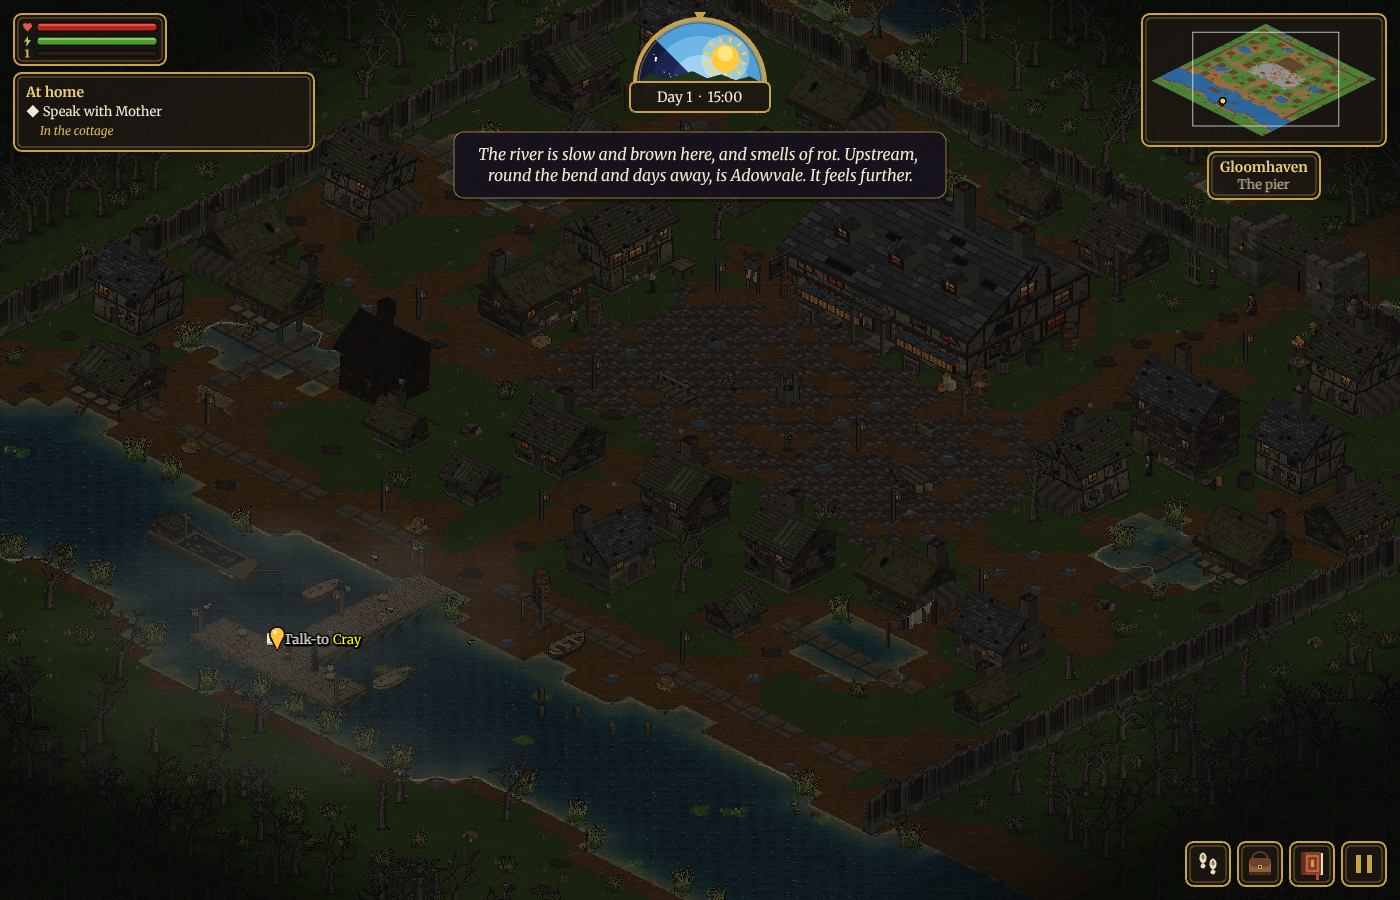
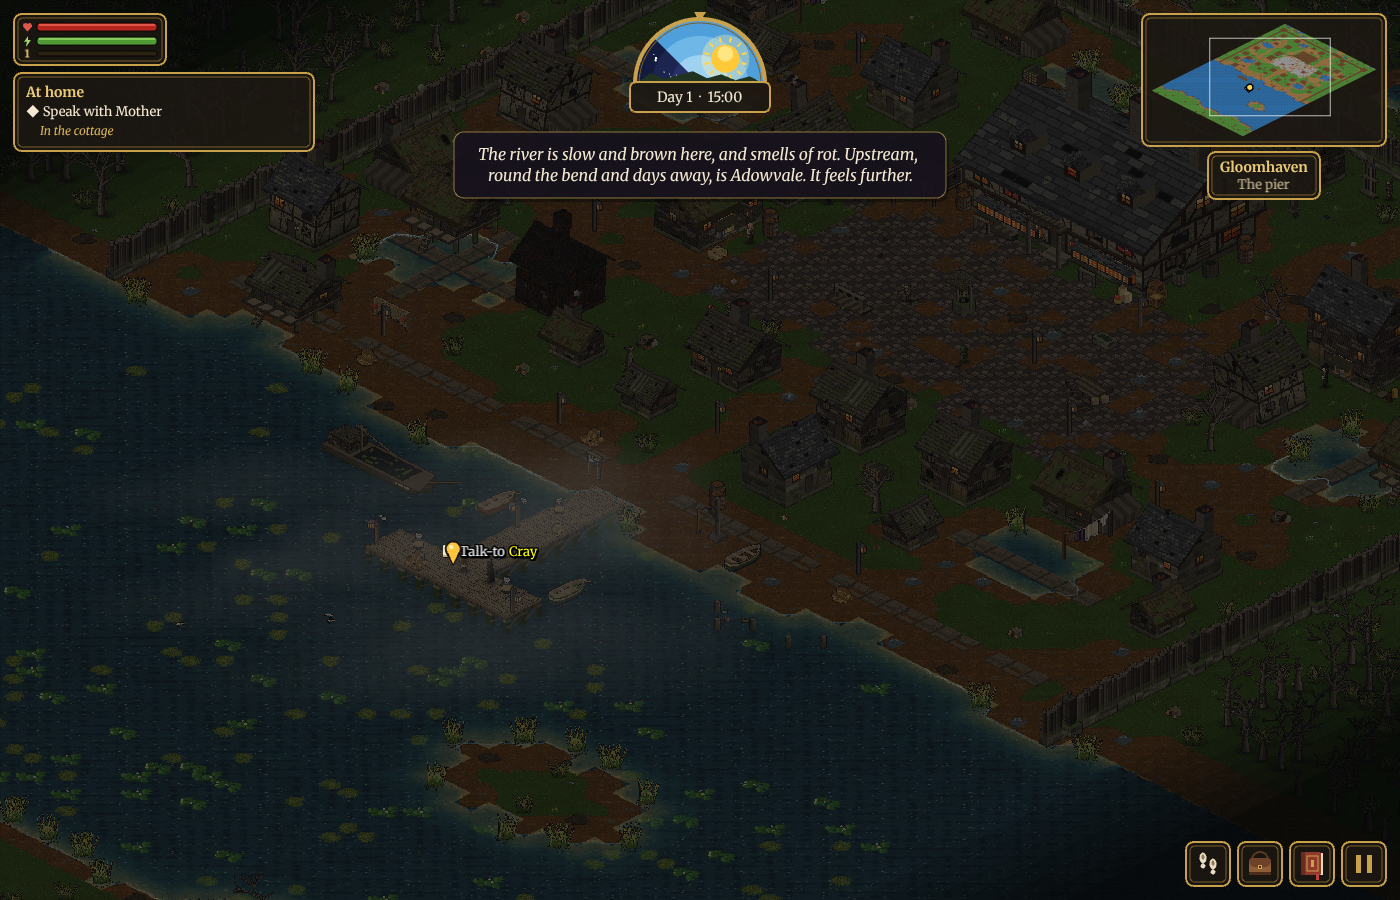
Gloomhaven: widen the river to over three times its width, with a reedy eyot out in it
The far bank now lies some 34 tiles off, so the pier reaches out into open
water instead of across it; the map runs further south to hold it.

Claude-Session: https://claude.ai/code/session_016H1bz4FekaBAahk7Wi7jVe

diff --git a/src/world/GloomhavenMap.ts b/src/world/GloomhavenMap.ts
@@ -31,8 +31,11 @@ export function gloomBank(x: number): number {
 
 /** Where the far bank comes down to the water: rows from here on are the far shore (all reeds and drowned trees). */
 function farBank(x: number): number {
-  return 56.4 + 1.2 * Math.sin(x * 0.21 + 1.3) + 0.6 * Math.sin(x * 0.53);
+  return 80.4 + 1.6 * Math.sin(x * 0.21 + 1.3) + 0.8 * Math.sin(x * 0.53);
 }
+
+/** A reedy eyot out in the river, east of the pier: centre and radii, in tiles. */
+const EYOT = { x: 45, y: 64, rx: 4.2, ry: 2.6 };
 
 /** Standing pools inside the walls: centre and radii, in tiles. */
 const POOLS: Array<{ x: number; y: number; rx: number; ry: number }> = [
@@ -69,6 +72,13 @@ export function buildGloomhavenMap(): MapData {
       if (cy >= near && cy < far) terrain[y][x] = Terrain.Water;
       else if (cy < near && cy >= near - 2.2) terrain[y][x] = Terrain.Dirt;
       else if (cy >= far && cy < far + 0.8) terrain[y][x] = Terrain.Dirt;
+    }
+  }
+  // ---- The eyot: a mudbank in mid-river, all reeds and a drowned tree or two ----
+  for (let y = 0; y < H; y++) {
+    for (let x = 0; x < W; x++) {
+      const d = Math.hypot((x + 0.5 - EYOT.x) / EYOT.rx, (y + 0.5 - EYOT.y) / EYOT.ry) + 0.15 * Math.sin(x * 1.7 + y * 2.3);
+      if (d < 1) terrain[y][x] = d < 0.6 ? Terrain.Grass : Terrain.Dirt;
     }
   }
   // ---- The pools ----
@@ -615,7 +625,8 @@ function addMarsh(data: MapData, rnd: Phaser.Math.RandomDataGenerator, set: Sett
     for (let x = 0; x < W; x++) {
       if (!free(x, y) || isWater(x, y)) continue;
       const roll = rnd.frac();
-      const outside = y < GLOOM_WALL.north - 1 || y > farBank(x) + 1;
+      const eyot = Math.hypot((x + 0.5 - EYOT.x) / EYOT.rx, (y + 0.5 - EYOT.y) / EYOT.ry) < 0.8;
+      const outside = y < GLOOM_WALL.north - 1 || y > farBank(x) + 1 || eyot;
       const town = inTown(x, y) && terrain[y][x] === Terrain.Grass;
       const edge = x < 2 || x > W - 3;
       const chance = outside ? (Math.abs(x - 37.5) < 3 ? 0 : 0.2) : edge ? 0.12 : town ? 0.035 : 0;
@@ -624,7 +635,8 @@ function addMarsh(data: MapData, rnd: Phaser.Math.RandomDataGenerator, set: Sett
     }
   }
   // Will-o'-the-wisp: a cold light out over the far bank some nights.
-  data.lights!.push({ gx: 14, gy: 58, z: 12, radius: 60, flicker: 0.9 });
+  data.lights!.push({ gx: 14, gy: 82, z: 12, radius: 60, flicker: 0.9 });
+  data.landmarks!.push({ gx: EYOT.x, gy: EYOT.y, name: 'Heron Eyot', range: 5 });
   data.musings!.push({
     x0: 3, y0: 17, x1: 14, y1: 23,
     text: 'The boards are slick and they give underfoot. The water either side is black and still, and it is not as shallow as it looks.',

diff --git a/src/world/atlasSurvey.ts b/src/world/atlasSurvey.ts
@@ -167,12 +167,21 @@ export const SURVEY: Partial<Record<AreaId, AreaSurvey>> = {
       'RRWWWWRWWWWRWRWWWWRW',
       'WWWWWWWWWWWWWWWWWWWW',
       'WWWWWWWWWWWWWWWWWWWW',
-      'WWWWWWRWWWWWWWR.WWWW',
-      '..........RRR.......',
+      'WWWWWWWWWWWWWWWWWWWW',
+      'WWWWWWWWWWWWWWWWWWWW',
+      'WWWWWWWWWWWWWWWWWWWW',
+      'WWWWWWWWWWWWWWRRWWWW',
+      'WWWWWWWWWWWWWWWWWWWW',
+      'WWWWWWWWWWWWWWWWWWWW',
+      'WWWWWWWWWWWWWWWWWWWW',
+      'WWWWWWWWWWWWWWWWWWWW',
+      'WWWWWW.WWWWWWW..WWWW',
+      'WW.......RRR........',
+      '....................',
       '....................',
     ],
     features: [],
-    names: [["The north-west tower",6,7],["The Fen Gate",38,6],["The town square",29.5,24.5],["The Black Rose",29.5,19.5],["Ossery's Remedies",19.5,22],["Tallow's Chandlery",19.5,27],["Lusk's",44,18.5],["The burnt house",17.5,36],["Rookery Row",9,12],["Sump Lane",9,32],["The Shambles",48,30],["Pier Lane",30,37],["The pier",30,53],["The Staithe",20,44]],
+    names: [["The north-west tower",6,7],["The Fen Gate",38,6],["The town square",29.5,24.5],["The Black Rose",29.5,19.5],["Ossery's Remedies",19.5,22],["Tallow's Chandlery",19.5,27],["Lusk's",44,18.5],["The burnt house",17.5,36],["Rookery Row",9,12],["Sump Lane",9,32],["The Shambles",48,30],["Pier Lane",30,37],["The pier",30,53],["The Staithe",20,44],["Heron Eyot",45,64]],
   },
   "plains": {
     ground: [

diff --git a/src/world/atlas.ts b/src/world/atlas.ts
@@ -55,7 +55,7 @@ export const REGIONS: Region[] = [
   { id: 'market', tiles: { w: 34, h: 44 }, box: { x: -60, y: 18.5, w: 17, h: 22 }, look: 'village' },
   { id: 'jetty', tiles: { w: 52, h: 62 }, box: { x: -64.25, y: 40.5, w: 26, h: 31 }, look: 'fields', label: { x: 40, y: 8 } },
   // Downriver from the jetty, days by boat: the marsh town.
-  { id: 'gloomhaven', tiles: { w: 60, h: 62 }, box: { x: -28, y: 64, w: 30, h: 31 }, look: 'village', label: { x: 44, y: 10 } },
+  { id: 'gloomhaven', tiles: { w: 60, h: 88 }, box: { x: -28, y: 64, w: 30, h: 44 }, look: 'village', label: { x: 44, y: 10 } },
   { id: 'plains', tiles: { w: 120, h: 150 }, box: { x: -67.6, y: -34.2, w: 40, h: 50 }, look: 'plains', label: { x: 40, y: 108 } },
   { id: 'monastery', tiles: { w: 64, h: 60 }, box: { x: -24.9, y: -22.2, w: 22, h: 20 }, look: 'grounds', label: { x: 36, y: 42 } },
   { id: 'abbey', tiles: { w: 46, h: 40 }, box: { x: -20.6, y: -34.2, w: 14, h: 12 }, look: 'cloister' },

diff --git a/src/world/landmarks.ts b/src/world/landmarks.ts
@@ -134,7 +134,7 @@ export const JETTY_LANE = { x0: 11, x1: 12 };
  * in the north wall.
  */
 export const GLOOM_W = 60;
-export const GLOOM_H = 62;
+export const GLOOM_H = 88;
 /** The wall: the rows and columns its north, west and east runs stand on (they run down to the river). */
 export const GLOOM_WALL = { north: 4, west: 3, east: 56 };
 /** The gatehouse in the north wall: its back corner and footprint, and the columns of the way through it. */
